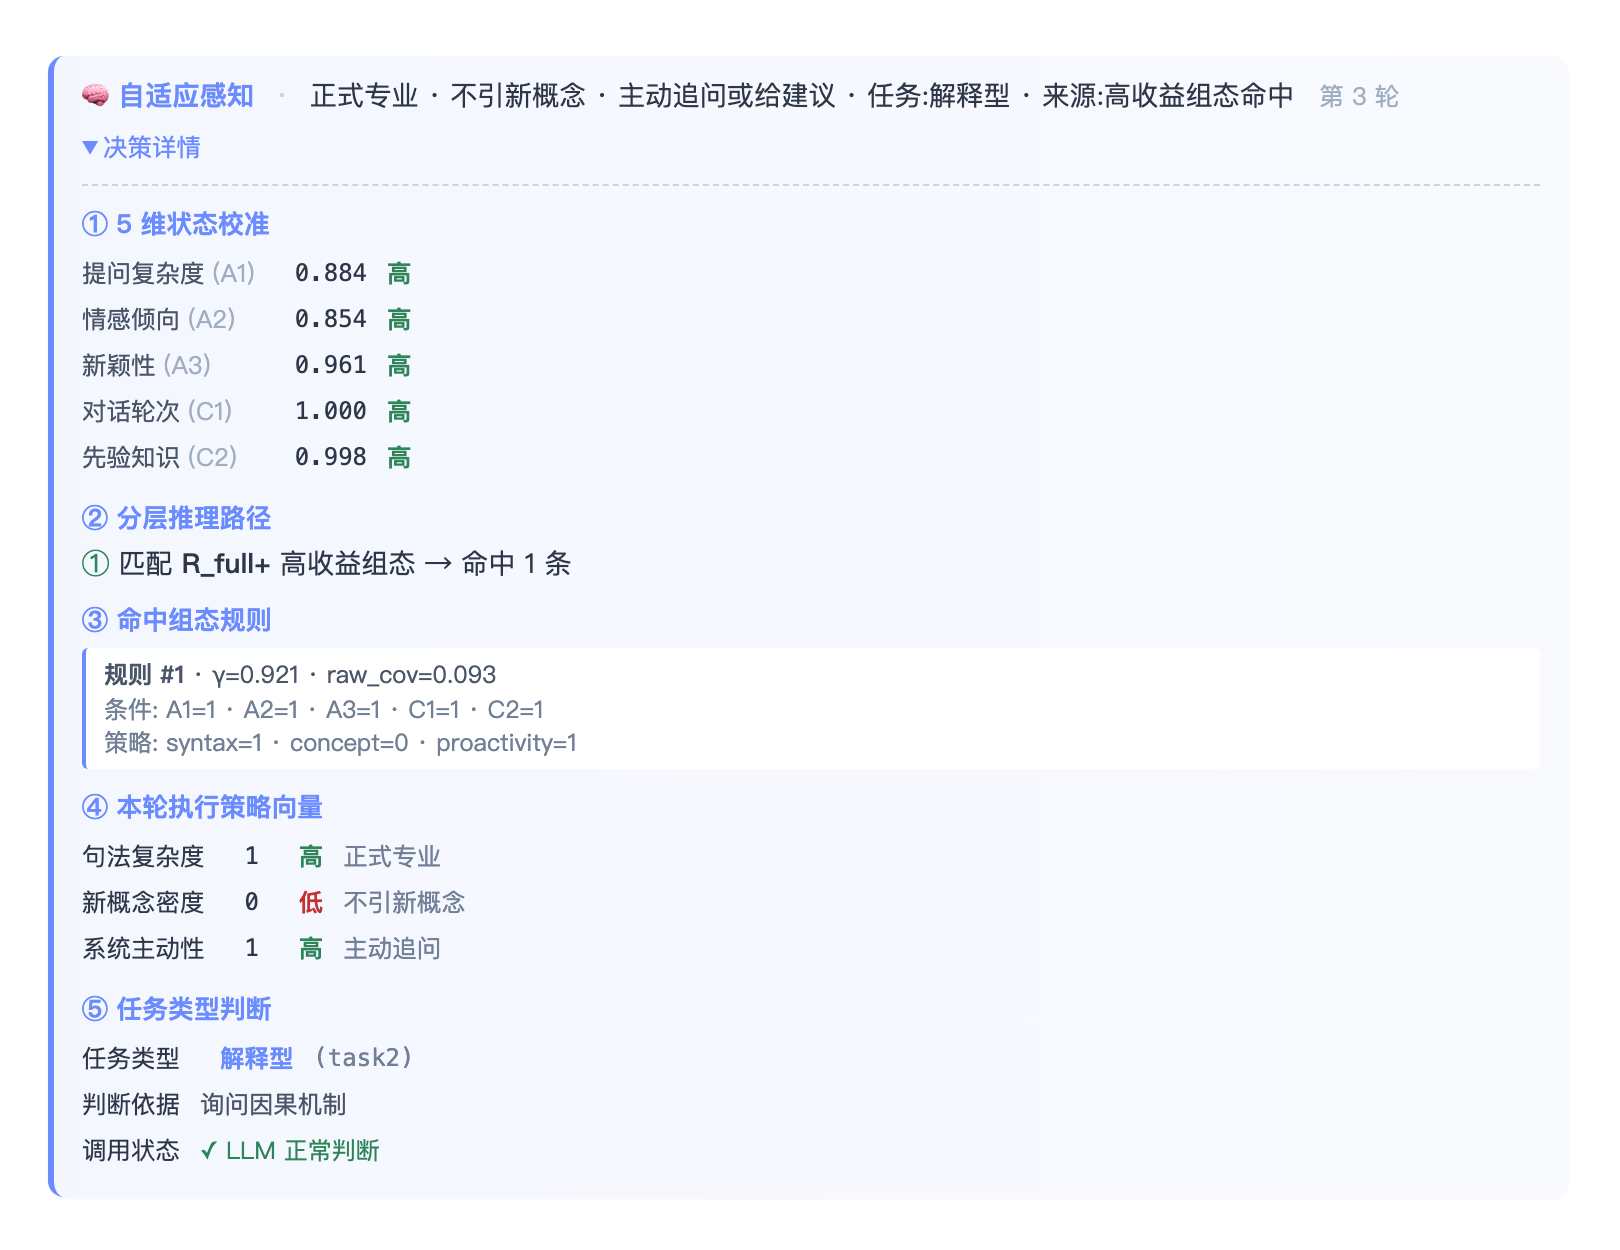
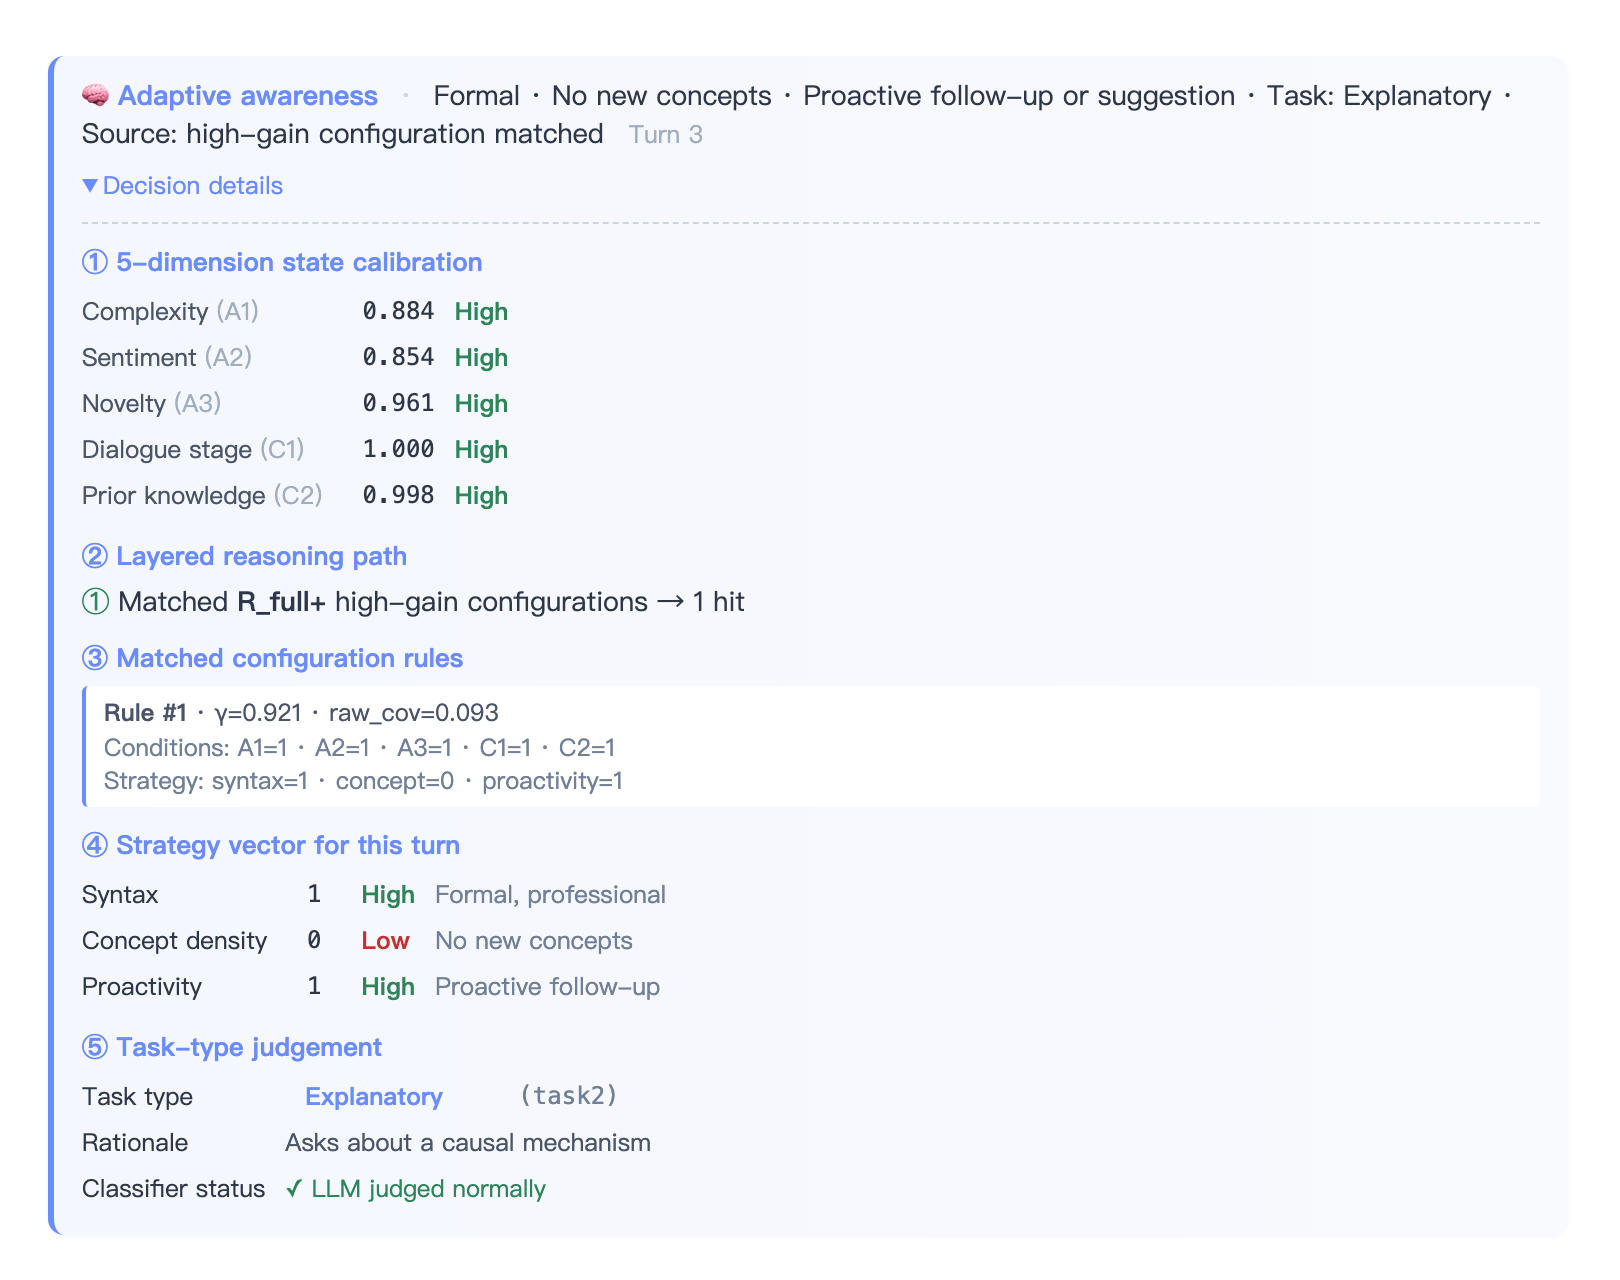
docs: render decision card figure in English

Changed region(s): [[0.0309, 0.0624, 0.9259, 0.936], [0.4321, 0.468, 0.463, 0.4992]]

diff --git a/README.md b/README.md
@@ -34,7 +34,7 @@ Two properties set it apart from prompt-tuning or black-box personalisation:
 <p align="center">
   <img src="docs/assets/adaptive-card.png" alt="The adaptive awareness card expanded, showing calibrated state, matched rule, strategy vector and task recognition" width="680">
   <br>
-  <sub><b>Figure 1.</b> The per-turn decision card, rendered by the app's own code from a real engine run (turn 3, explanatory task, R_full+ rule matched). The product UI is in Chinese; see the <a href="#reading-the-card">gloss</a> below.</sub>
+  <sub><b>Figure 1.</b> The per-turn decision card, rendered by the app's own code from a real engine run (turn 3, explanatory task, R_full+ rule matched). The app's UI is in Chinese; this figure is an English rendering of the same card (see <a href="#reading-the-card">Reading the card</a>).</sub>
 </p>
 
 ## Why this is not a prompt wrapper
